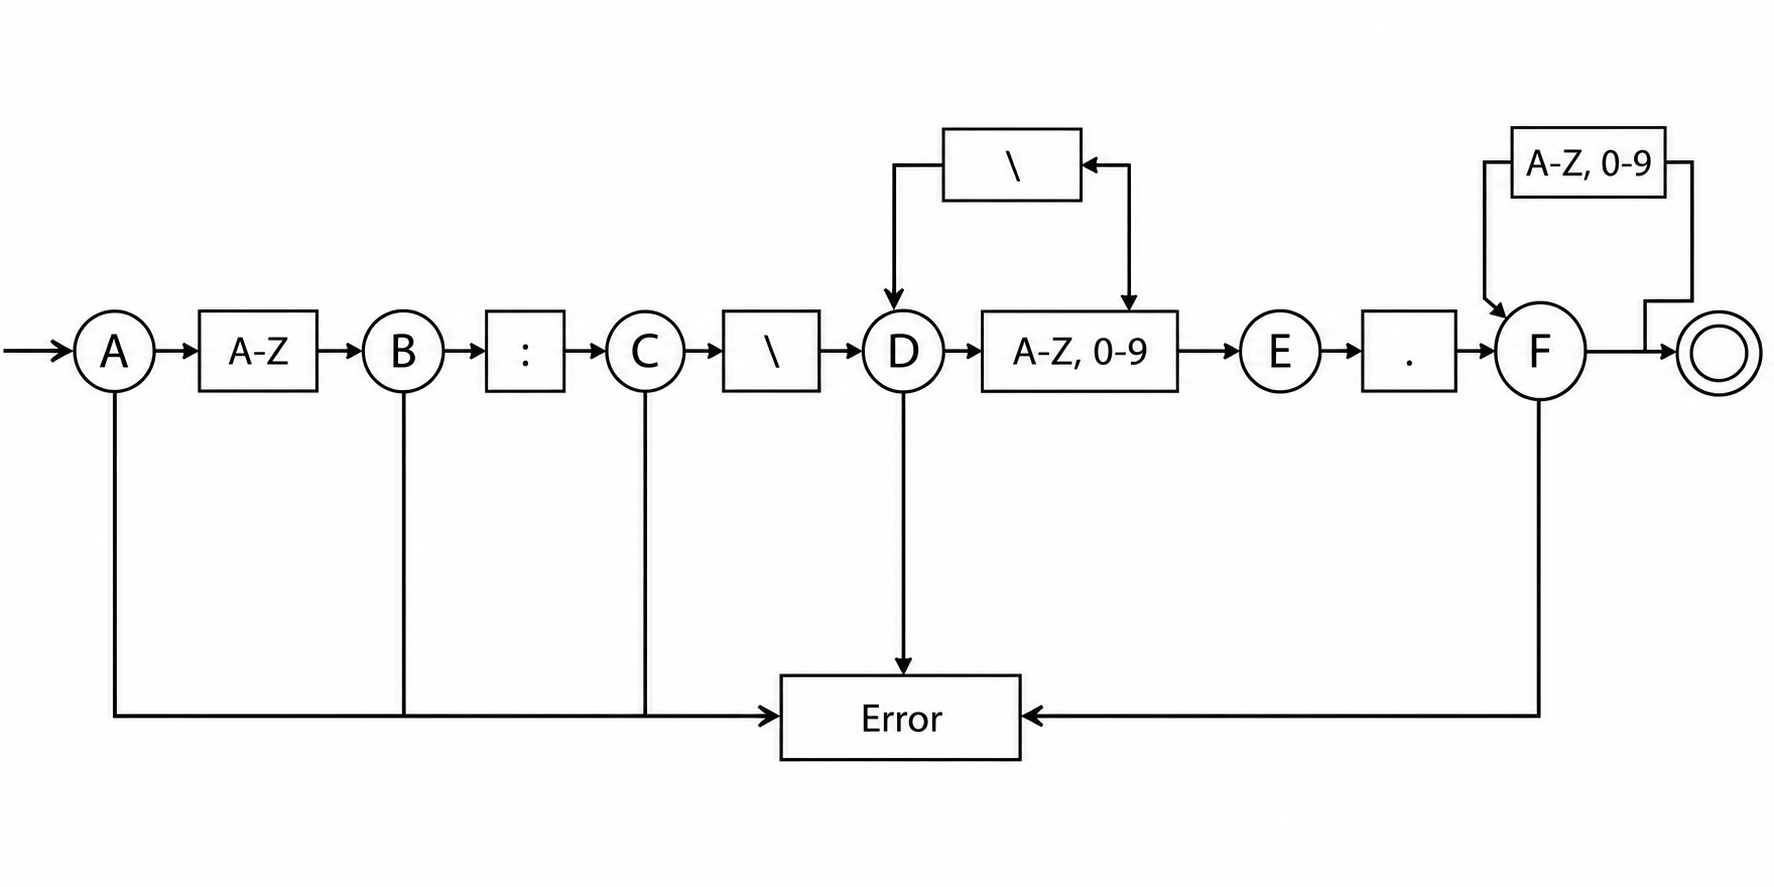
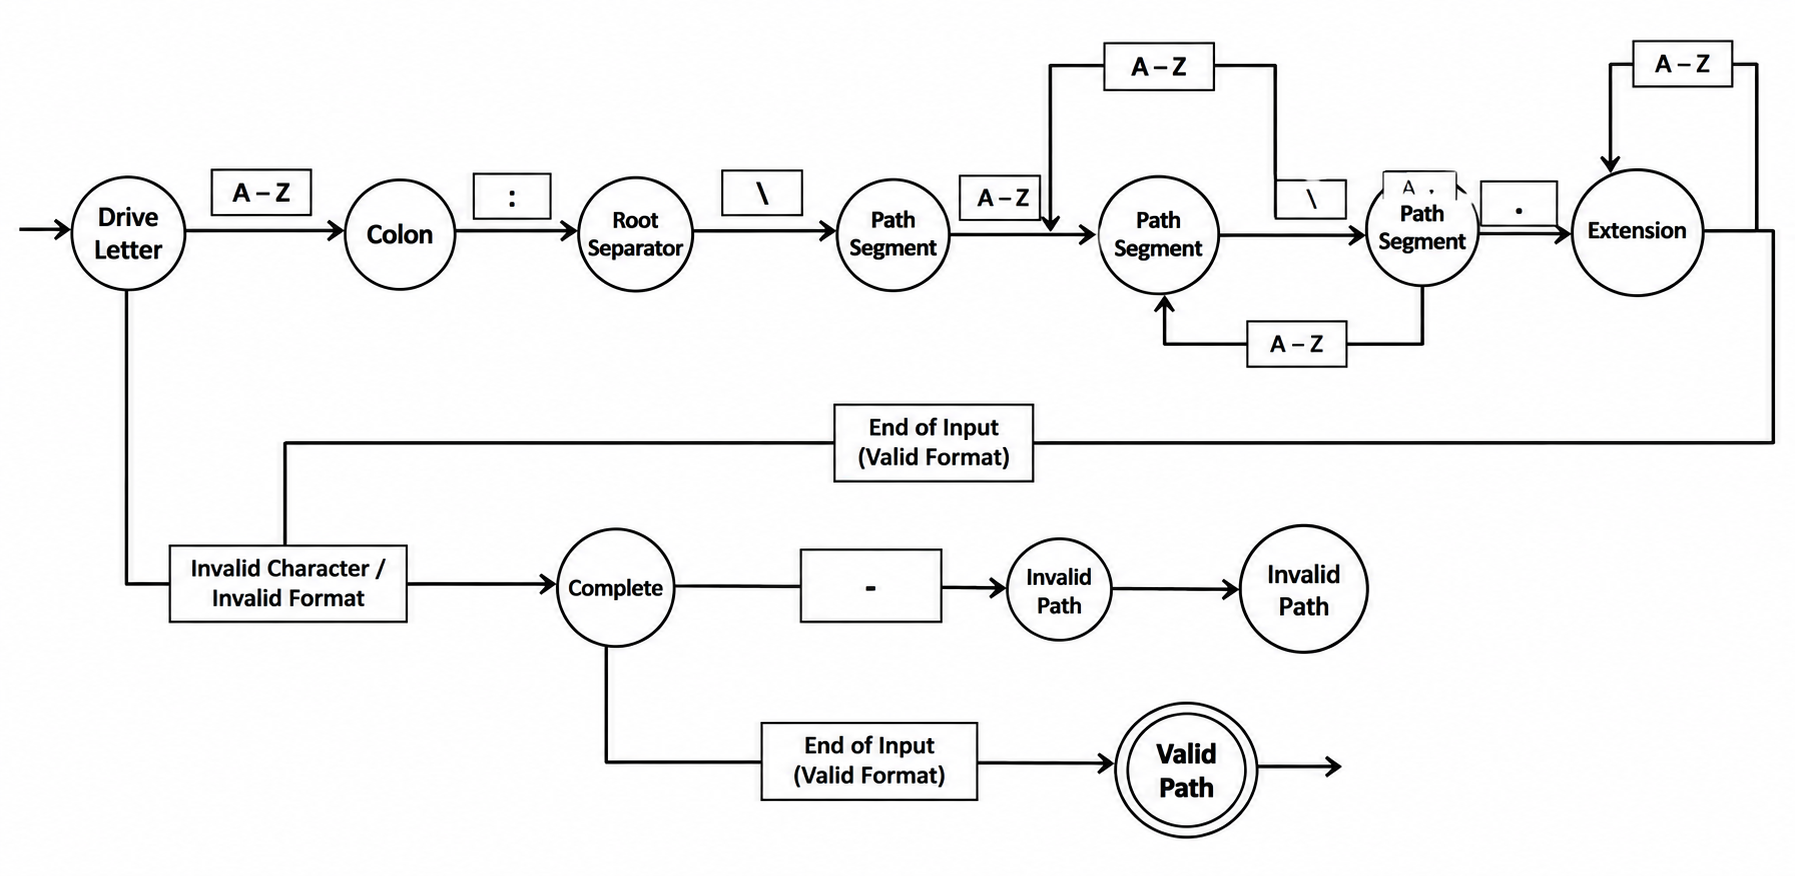
Review Fix

diff --git a/A10/Program.cs b/A10/Program.cs
@@ -86,11 +86,11 @@ class FileNameParser {
       return true;
    }
    #endregion
+}
+#endregion
 
-   #region Enum : State ---------------------------------------------------------------------------
-   enum State {
-      DriveLetter, Colon, RootSeparator, PathSegment, Extension, Complete, Error
-   }
-   #endregion
+#region Enum State --------------------------------------------------------------------------------
+enum State {
+   DriveLetter, Colon, RootSeparator, PathSegment, Extension, Complete, Error
 }
 #endregion
